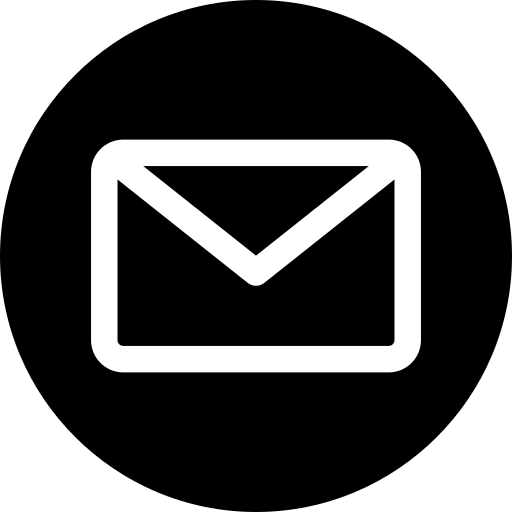
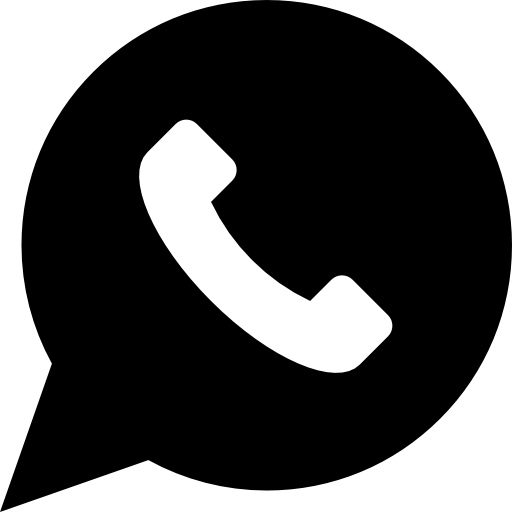
stage fix

diff --git a/src/components/footer/Footer.tsx b/src/components/footer/Footer.tsx
@@ -15,7 +15,7 @@ export const Footer = () => {
                 </div>
 
                 <div className={style.footerBlock2}>
-                   <p>Связаться с нами можно по:</p>
+                   <p>Связь с нами:</p>
                     <span>@gilletteopt.ru</span>
                     <span>8 495 000 12 12</span>
                 </div>
@@ -23,9 +23,9 @@ export const Footer = () => {
             </div>
 
             <div className={style.footerInfo}>
-                <span><img src={telega} alt="telega"/><a href="">Telegram</a></span>
-                <span><img src={twitter} alt="twitter"/><a href="">Twitter</a></span>
-                <span><img src={email} alt="email"/><a href="">Email</a></span>
+                <span><img src={telega} alt="telega"/><a href="https://web.telegram.org/k/" target={'_blank'}>Telegram</a></span>
+                <span><img src={twitter} alt="twitter"/><a href="https://en.wikipedia.org/wiki/Twitter" target={'_blank'}>Twitter</a></span>
+                <span><img src={email} alt="email"/><a href="https://www.whatsapp.com/" target={'_blank'}>WhatsApp</a></span>
             </div>
         </footer>
     )

diff --git a/src/components/header/navbar/NavBar.tsx b/src/components/header/navbar/NavBar.tsx
@@ -5,7 +5,7 @@ export const NavBar = () => {
     return (
         <nav className={style.navbarContainer}>
 
-            <Link activeClass="active" to="main" spy={true} smooth={true} duration={500}>
+            <Link activeClass="active" to="main" spy={true} offset={-20} smooth={true} duration={500}>
                 Главная
             </Link>
 

diff --git a/src/components/main-page/MainPage.module.scss b/src/components/main-page/MainPage.module.scss
@@ -1,5 +1,5 @@
 .mainPageContainer {
-  min-height: 90vh;
+  min-height: 95vh;
   flex-wrap: wrap;
 
   display: flex;
